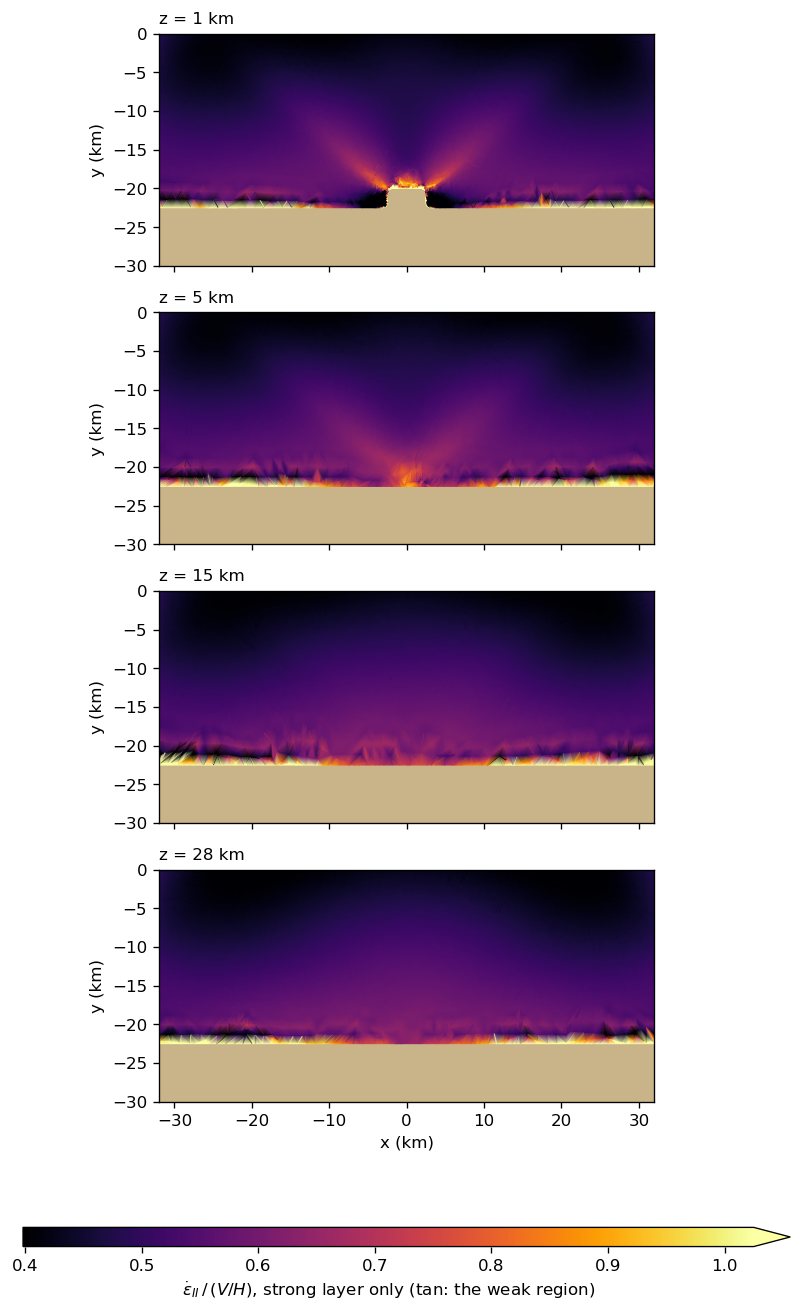
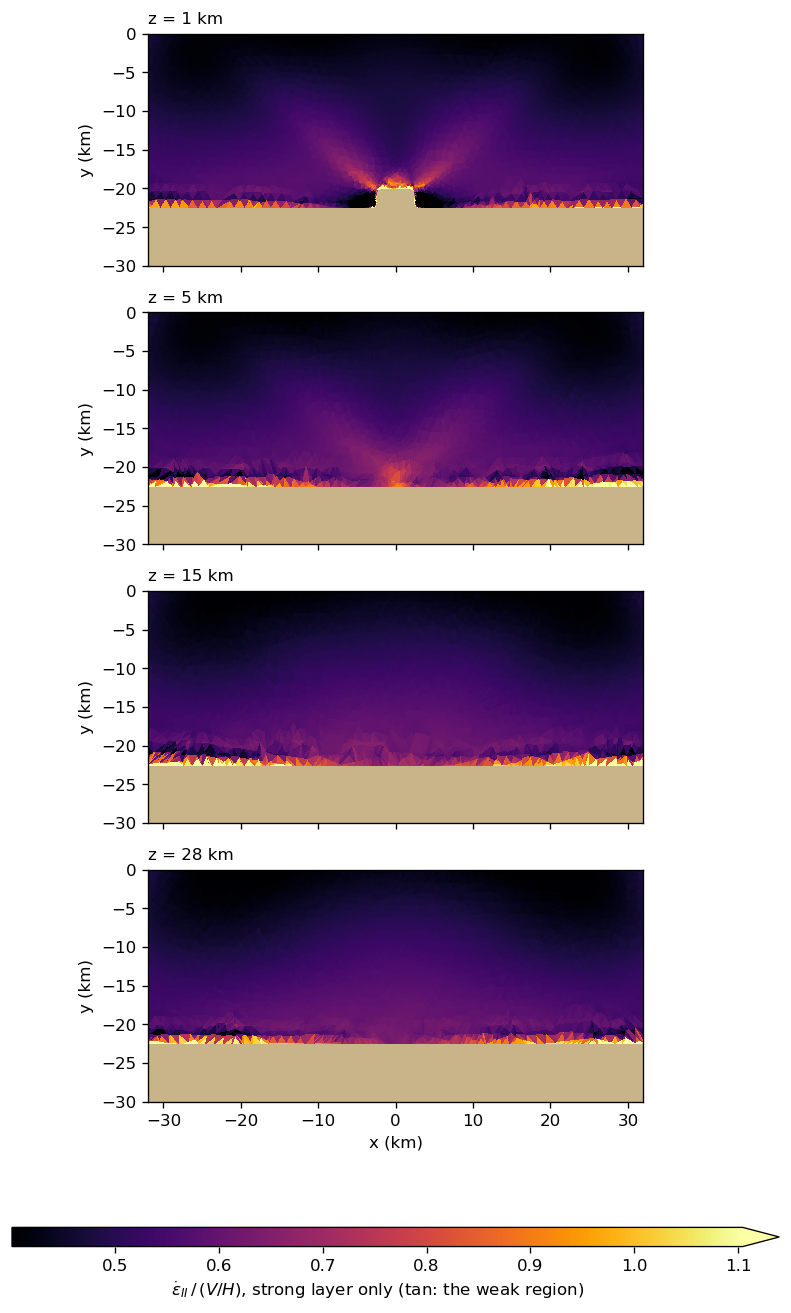
notch block 3-D: sections evaluated at slice-cell centroids (no interface point-location speckle); ref-2 sections for 5, 10 and 20 km blocks
Underworld development team with AI support from Claude Code

diff --git a/notch_length_scale/drivers/render_3d_notch_sections.py b/notch_length_scale/drivers/render_3d_notch_sections.py
@@ -92,12 +92,17 @@ strong = grid.extract_cells(np.flatnonzero(strong_cell))
 
 
 def with_edot(surface):
-    pts = np.asarray(surface.points) * 1.0e3 / L
+    """The field at the CENTROID of each slice polygon, as cell data. Each polygon is
+    the cut through one tetrahedron, so its centroid lies strictly inside that cell:
+    no point sits on a weak/strong face, where point location picks either side and
+    the field jumps by the viscosity contrast (the speckle along the layer top)."""
+    surface = surface.extract_surface() if not isinstance(surface, pv.PolyData) else surface
+    pts = np.asarray(surface.cell_centers().points) * 1.0e3 / L
     if isinstance(VALUE, tuple):
         num, den = (np.asarray(uw.function.evaluate(v, pts), dtype=float).ravel() for v in VALUE)
-        surface.point_data["edot"] = num / den
+        surface.cell_data["edot"] = num / den
     else:
-        surface.point_data["edot"] = np.asarray(uw.function.evaluate(VALUE, pts)).ravel()
+        surface.cell_data["edot"] = np.asarray(uw.function.evaluate(VALUE, pts)).ravel()
     return surface
 
 
@@ -105,7 +110,7 @@ sections = [with_edot(strong.slice(normal="z", origin=(0.0, -15.0, z))
                       .clip_box((-half, half, -31, 1, -1, Lz + 1), invert=False))
             for z in zs]
 for z, s in zip(zs, sections):
-    v = s.point_data["edot"]
+    v = s.cell_data["edot"]
     uw.pprint(f"[{FIELD}] z = {z:g}: min {np.min(v):.4g}  p50 {np.median(v):.4g}  max {np.max(v):.4g}")
 if FIELD == "yield":
     # the pieces of the ratio at one point mid-layer, far from the block
@@ -119,7 +124,7 @@ if clim is None:
     # the range from the BAND region only (y above -20 km): the strip along the top of
     # the weak layer and the notch-top hot spot would otherwise take the range, and
     # they saturate instead
-    allv = np.concatenate([s.point_data["edot"][np.asarray(s.points)[:, 1] > -20.0]
+    allv = np.concatenate([s.cell_data["edot"][np.asarray(s.cell_centers().points)[:, 1] > -20.0]
                            for s in sections])
     clim = (float(np.percentile(allv, 2)), float(np.percentile(allv, 99.5)))
 
@@ -136,7 +141,7 @@ pl.set_background("white")
 pl.add_mesh(weak_body, color="#c9b48a", smooth_shading=True)
 far = int(np.argmax(zs))                  # the camera sits on the low-z side: every
 for k, s in enumerate(sections):          # plane but the farthest is see-through
-    pl.add_mesh(s, scalars="edot", cmap="inferno", clim=clim, lighting=False,
+    pl.add_mesh(s, scalars="edot", preference="cell", cmap="inferno", clim=clim, lighting=False,
                 opacity=(1.0 if k == far or len(zs) == 1 else 0.55),
                 show_scalar_bar=(k == 0),
                 scalar_bar_args=dict(title=("eta_eff / eta_lin" if FIELD == "yield" else "edot_II / (V/H)")
@@ -159,11 +164,11 @@ import matplotlib.pyplot as plt   # noqa: E402
 fig, axes = plt.subplots(len(zs), 1, figsize=(11, 3.4 * len(zs)), sharex=True,
                          squeeze=False)
 for ax, z, s in zip(axes[:, 0], zs, sections):
-    tri = s.extract_surface().triangulate()
+    tri = s.triangulate()                  # cell data carried onto the triangles
     faces = tri.faces.reshape(-1, 4)[:, 1:]
     P = np.asarray(tri.points)
-    im = ax.tripcolor(P[:, 0], P[:, 1], faces, tri.point_data["edot"], cmap="inferno",
-                      vmin=clim[0], vmax=clim[1], shading="gouraud")
+    im = ax.tripcolor(P[:, 0], P[:, 1], faces, facecolors=tri.cell_data["edot"],
+                      cmap="inferno", vmin=clim[0], vmax=clim[1], shading="flat")
     ax.set_title(f"z = {z:g} km{eta_label(z)}", fontsize=10, loc="left")
     ax.set_xlim(-half, half)
     ax.set_ylim(-30, 0)
